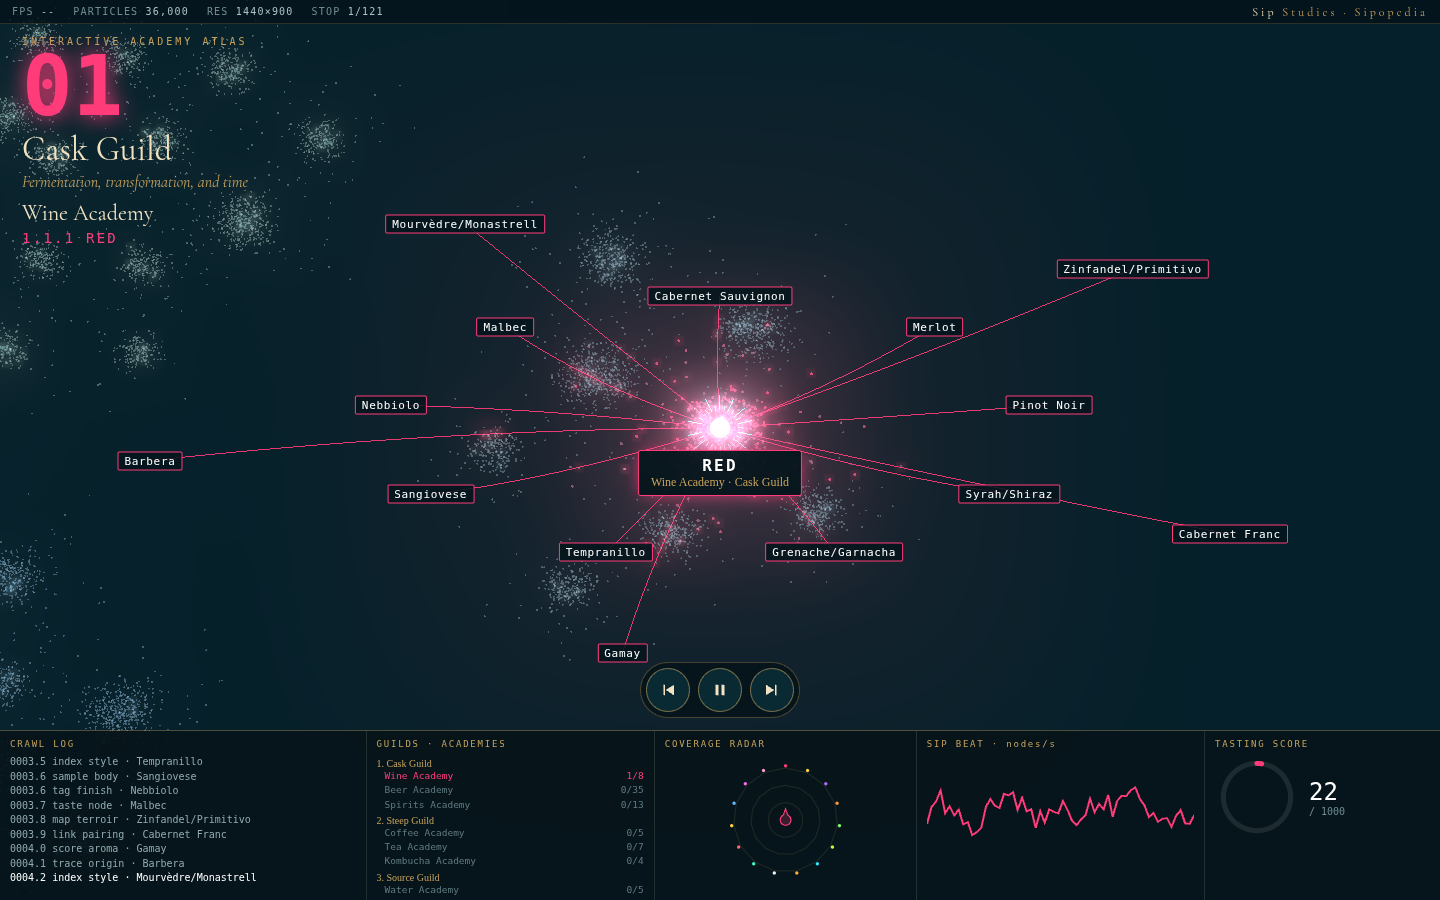
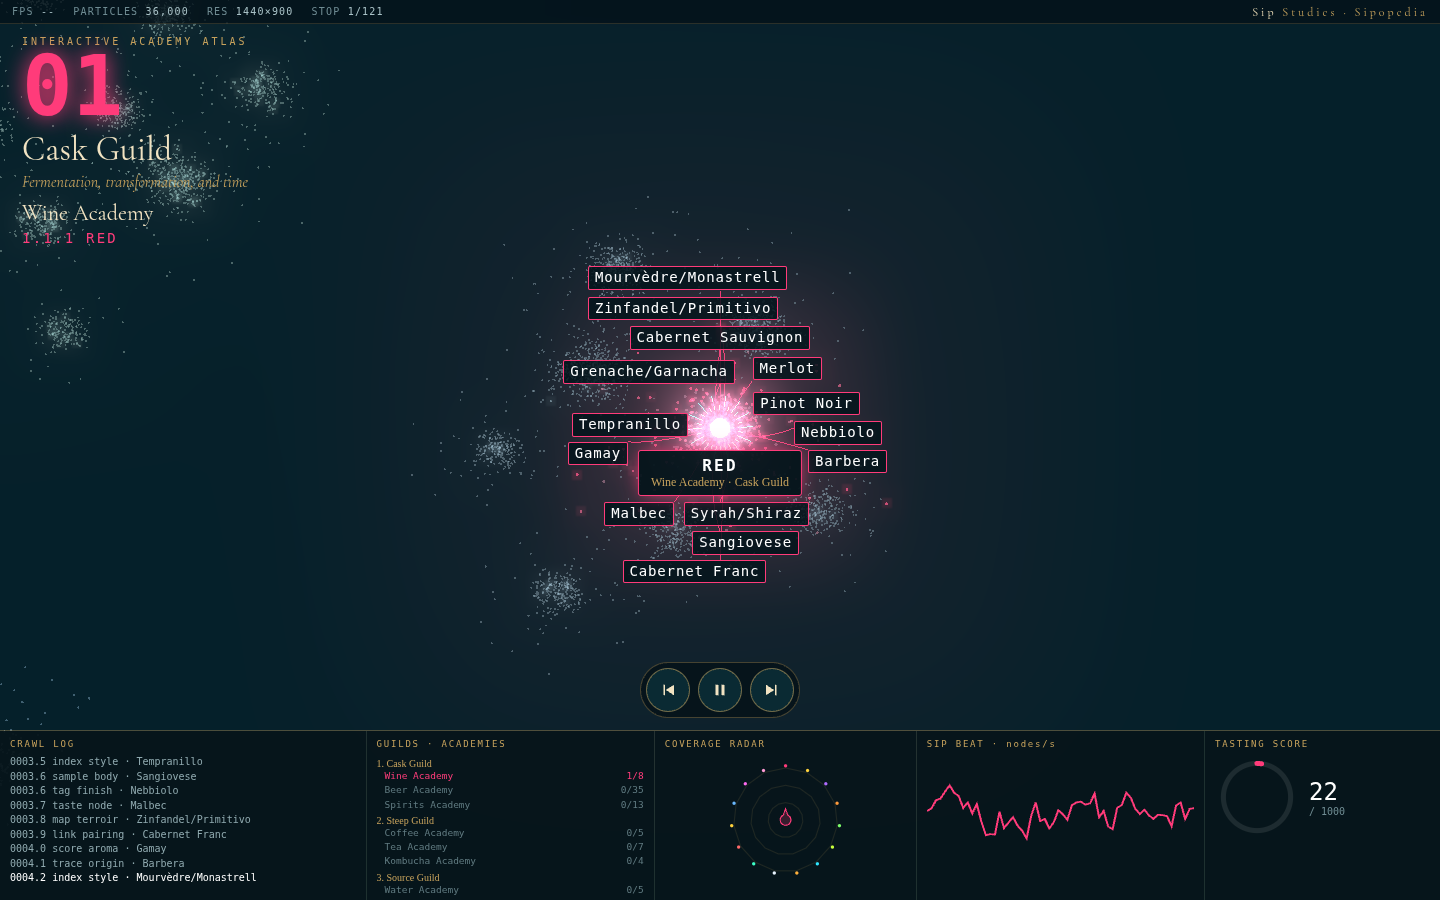
Collision-free label solver, locked per-stop layout, overlap check across 121 stops x 3 viewports, new previews

diff --git a/index.html b/index.html
@@ -7,12 +7,12 @@ canvas{position:fixed;inset:0;display:block}
 .serif{font-family:"Cormorant Garamond",Georgia,"Times New Roman",serif}
 #top{position:fixed;top:0;left:0;right:0;height:24px;display:flex;gap:18px;align-items:center;padding:0 12px;font-size:10px;letter-spacing:.12em;color:#6f8c93;border-bottom:1px solid #c6a15b33;background:#041219cc;z-index:4}
 #top b{color:#a9c2c7;font-weight:400}#brand{margin-left:auto;color:#e9d9b4;letter-spacing:.25em;font-size:12px}#brand span{color:#c6a15b}
-#step{position:fixed;top:36px;left:22px;z-index:3;pointer-events:none;max-width:60vw}
+body.still .tag,body.still #hub{transition:none!important}#step>div{width:fit-content;max-width:100%}#step{position:fixed;top:36px;left:22px;z-index:3;pointer-events:none;max-width:60vw}
 #kick{font-size:10px;letter-spacing:.3em;color:#c6a15b}
 #num{font-size:clamp(40px,7vw,84px);line-height:.95;font-weight:700;color:var(--c,#2ee6ff);text-shadow:0 0 22px var(--c,#2ee6ff)}
 #title{font-size:clamp(20px,3vw,34px);color:#f1e3c2;margin-top:2px}#tagline{font-style:italic;color:#c6a15b;font-size:clamp(12px,1.5vw,16px);margin-top:2px}
 #acad{font-size:clamp(15px,2vw,22px);color:#f1e3c2;margin-top:8px}#subt{font-size:clamp(11px,1.4vw,14px);letter-spacing:.16em;color:var(--c);margin-top:4px}
-.tag{position:fixed;z-index:2;font-size:var(--fs,10px);letter-spacing:.06em;padding:2px 6px;border:1px solid var(--c);color:#fff;background:#04141bd8;transform:translate(-50%,-50%);white-space:nowrap;transition:opacity .35s;pointer-events:none;border-radius:2px}
+.tag{position:fixed;z-index:2;font-size:var(--fs,10px);letter-spacing:.06em;padding:2px 6px;border:1px solid var(--c);color:#fff;background:#04141bd8;white-space:nowrap;transition:opacity .35s;line-height:1.25;pointer-events:none;border-radius:2px}
 #hub{position:fixed;z-index:3;transform:translate(-50%,0);pointer-events:none;text-align:center;padding:5px 12px;border:1px solid var(--c);background:#04141bee;box-shadow:0 0 18px -4px var(--c);border-radius:3px;white-space:nowrap;transition:opacity .3s}
 #hub b{display:block;font-size:clamp(12px,1.5vw,16px);letter-spacing:.14em;color:#fff}#hub i{display:block;font-style:normal;font-size:clamp(10px,1.1vw,12px);color:#c6a15b;font-family:Georgia,serif}
 #ctrl{position:fixed;left:50%;transform:translateX(-50%);bottom:182px;z-index:5;display:flex;gap:8px;background:#041219e0;border:1px solid #c6a15b55;border-radius:28px;padding:5px}
@@ -80,11 +80,29 @@ function clearT(){tendrils.forEach(t=>{scene.remove(t.line);t.line.geometry.disp
 function region(){const top=MOB?190:200,bot=MOB?200:240;return {top,bot:innerHeight-bot}}
 function layout(n){const caps=MOB?[6,9,12,15]:[9,13,17,21];const rings=[];let left=n,k=0;while(left>0){const c=Math.min(left,caps[Math.min(k,3)]);rings.push(c);left-=c;k++}
 const out=[];rings.forEach((c,k)=>{const f=rings.length==1?.8:.58+.42*k/(rings.length-1);for(let j=0;j<c;j++){const a=(j+(k%2)*.5)/c*Math.PI*2-Math.PI/2+(k*.17);out.push({a,f,ring:k})}});return out}
-function spawnT(s){clearT();const st=s.sg.styles,L=layout(st.length),fs=st.length>30?(MOB?7:8.5):st.length>14?(MOB?7.5:9.5):(MOB?8.5:11);
-st.forEach((name,j)=>{const geo=new THREE.BufferGeometry();geo.setAttribute('position',new THREE.BufferAttribute(new Float32Array(20*3),3));
+const PAD=4;let lock=null;
+function R(el){const b=el.getBoundingClientRect();return {x:b.left,y:b.top,w:b.width,h:b.height}}
+function hit(a,b,p){return a.x<b.x+b.w+p&&b.x<a.x+a.w+p&&a.y<b.y+b.h+p&&b.y<a.y+a.h+p}
+function reserved(cx,cy){const z=[R($('top')),R($('ctrl')),R($('dash'))];[...$('step').children].forEach(c=>{if(c.offsetParent&&c.textContent)z.push(R(c))});
+if(hub.firstChild.textContent)z.push(R(hub));z.push({x:cx-22,y:cy-22,w:44,h:44});return z}
+function solve(sizes,cx,cy,Z){const W=innerWidth,H=innerHeight,M=6,n=sizes.length,placed=[];const maxR=Math.hypot(W,H);
+for(let i=0;i<n;i++){const {w,h}=sizes[i],pref=i/n*Math.PI*2-Math.PI/2;let ok=null;
+for(let r=MOB?62:90;r<maxR&&!ok;r+=7){const da=Math.max(.05,9/r);for(let m=0;m*da<=Math.PI&&!ok;m++)for(const sg of m?[1,-1]:[1]){const a=pref+sg*m*da,px=cx+Math.cos(a)*r,py=cy+Math.sin(a)*r;
+const b={x:px-w/2,y:py-h/2,w,h};if(b.x<M||b.y<M||b.x+w>W-M||b.y+h>H-M)continue;if(Z.some(z=>hit(b,z,PAD))||placed.some(z=>hit(b,z,PAD)))continue;ok=b;break}}
+if(!ok)return null;placed.push(ok)}return placed}
+function spawnT(s,cx,cy,instant){clearT();const st=s.sg.styles;hub.style.left=cx+'px';hub.style.top=(cy+(MOB?16:22))+'px';
+// keep hub inside the free area
+let hb=R(hub);const top=R($('top')).y+R($('top')).h,ctl=R($('ctrl')).y;if(hb.y+hb.h>ctl-8)hub.style.top=(ctl-8-hb.h)+'px';if(hb.x<6)hub.style.left=(6+hb.w/2)+'px';if(hb.x+hb.w>innerWidth-6)hub.style.left=(innerWidth-6-hb.w/2)+'px';
+const Z=reserved(cx,cy);const els=st.map(name=>{const el=document.createElement('div');el.className='tag';el.style.setProperty('--c',s.A.a.color);el.textContent=name;el.style.opacity=0;el.style.left='-999px';el.style.top='0px';tagsEl.appendChild(el);return el});
+let fs=MOB?(st.length>12?12:13):(st.length>20?12:14),pl=null;
+for(;fs>=10&&!pl;fs--){els.forEach(el=>el.style.setProperty('--fs',fs+'px'));pl=solve(els.map(el=>({w:el.offsetWidth,h:el.offsetHeight})),cx,cy,Z)}
+window.__fallback=window.__fallback||0;if(!pl){window.__fallback++;pl=els.map((el,i)=>({x:6,y:30+i*(el.offsetHeight+2),w:el.offsetWidth,h:el.offsetHeight}))}
+lock={cx,cy,fs:fs+1};
+st.forEach((name,j)=>{const el=els[j],b=pl[j];el.style.left=b.x+'px';el.style.top=b.y+'px';
+const ex=Math.max(b.x,Math.min(cx,b.x+b.w)),ey=Math.max(b.y,Math.min(cy,b.y+b.h));
+const geo=new THREE.BufferGeometry();geo.setAttribute('position',new THREE.BufferAttribute(new Float32Array(20*3),3));
 const line=new THREE.Line(geo,new THREE.LineBasicMaterial({color:s.A.a.color,transparent:true,opacity:.8}));scene.add(line);
-const el=document.createElement('div');el.className='tag';el.style.setProperty('--c',s.A.a.color);el.style.setProperty('--fs',fs+'px');el.textContent=name;el.style.opacity=0;tagsEl.appendChild(el);
-tendrils.push({line,el,L:L[j],born:now,delay:j*(RM?.05:.09),wob:Math.random()*9,done:false,end:new THREE.Vector3()})})}
+if(instant){el.style.opacity=1}tendrils.push({line,el,sx:ex,sy:ey,done:!!instant,born:instant?now-99:now,delay:j*(RM?.05:.09),wob:Math.random()*9,end:new THREE.Vector3()})})}
 // HUD
 const logEl=$('log'),secsEl=$('secs');const rows=[];
 G.forEach((g,gi)=>{const h=document.createElement('div');h.className='gh';h.textContent=`${gi+1}. ${title(g.name)}`;h.onclick=()=>jump(acads.find(a=>a.g==gi).first);secsEl.appendChild(h);
@@ -131,16 +149,14 @@ const cm=ease(Math.min(1,e/(travel*1.05)));cam.position.lerpVectors(camFrom,camT
 ring.rotation.z+=rdt*(RM?.3:1.6);crawler.scale.setScalar(1+Math.sin(now*6)*.06);
 tp.copyWithin(3,0,(TL-1)*3);tp[0]=crawler.position.x;tp[1]=crawler.position.y;tp[2]=crawler.position.z;tg.attributes.position.needsUpdate=true;
 const cp=crawler.position.clone().project(cam),cx=(cp.x+1)/2*innerWidth,cy=(1-cp.y)/2*innerHeight;
-if(!all){if(e>travel*.85)hub.style.opacity=1;hub.style.left=cx+'px';hub.style.top=(cy+(MOB?16:22))+'px';
-if(e>travel&&!spawned){spawned=true;spawnT(stop);if(!seen[cur]){seen[cur]=1;stop.A.done++;rows[stop.A.idx].lastChild.textContent=`${stop.A.done}/${stop.A.n}`}}
+if(!all){if(e>travel*.85)hub.style.opacity=1;if(!spawned){hub.style.left=cx+'px';hub.style.top=(cy+(MOB?16:22))+'px'}
+if(e>travel&&!spawned){spawned=true;spawnT(stop,cx,cy);if(!seen[cur]){seen[cur]=1;stop.A.done++;rows[stop.A.idx].lastChild.textContent=`${stop.A.done}/${stop.A.n}`}}
 if(e>travel)lit[cur]=Math.min(1,lit[cur]+rdt*1.2)}
-const rg=region(),hx=Math.min(cx-60,innerWidth-cx-60,MOB?innerWidth*.46:innerWidth*.40),hy=Math.min(cy-rg.top,rg.bot-cy,MOB?240:260);
-tendrils.forEach((td,j)=>{const a=Math.max(0,Math.min(1,(now-td.born-td.delay)/.6)),k=1-Math.pow(1-a,3)+(RM?0:Math.sin(a*Math.PI*3)*.08*(1-a));
-let sx=cx+Math.cos(td.L.a)*Math.max(70,hx)*td.L.f,sy=cy+Math.sin(td.L.a)*Math.max(60,hy)*td.L.f;const hw=(td.w||(td.w=td.el.offsetWidth))/2+6;sx=Math.max(hw,Math.min(innerWidth-hw,sx));sy=Math.max(rg.top-10,Math.min(rg.bot,sy));
+tendrils.forEach((td,j)=>{const a=Math.max(0,Math.min(1,(now-td.born-td.delay)/.6)),k=1-Math.pow(1-a,3)+(RM?0:Math.sin(a*Math.PI*3)*.08*(1-a));const sx=td.sx,sy=td.sy;
 tmp.set(sx/innerWidth*2-1,-(sy/innerHeight*2-1),cp.z).unproject(cam);td.end.copy(tmp);
 const pa=td.line.geometry.attributes.position.array,s=crawler.position,w=RM?0:4,mid=s.clone().lerp(td.end,.5).add(new THREE.Vector3(Math.sin(now*2+td.wob)*w,Math.cos(now*1.7+td.wob)*w,0));
 for(let q=0;q<20;q++){const u=q/19*k,a1=s.clone().lerp(mid,u),a2=mid.clone().lerp(td.end,u),pt=a1.lerp(a2,u);pa[q*3]=pt.x;pa[q*3+1]=pt.y;pa[q*3+2]=pt.z}
-td.line.geometry.attributes.position.needsUpdate=true;td.el.style.left=sx+'px';td.el.style.top=sy+'px';
+td.line.geometry.attributes.position.needsUpdate=true;
 if(a>=1&&!td.done){td.done=true;td.el.style.opacity=1;score++;log(`${VERBS[(j+cur)%VERBS.length]} · ${td.el.textContent}`);beatArr[beatArr.length-1]=1}});
 for(let i=0;i<NS;i++)litData[i*4]=lit[i];litTex.needsUpdate=true;pm.uniforms.uT.value=now;
 if(fr%2==0&&!paused){beatArr.push(Math.min(1,beatArr[beatArr.length-1]*.6+.08+Math.random()*.3*(all?.5:1)));beatArr.shift()}
@@ -148,9 +164,17 @@ if(fr%3==0){const c=all?'#c6a15b':stop.A.a.color;drawRadar(c);drawBeat(c);const 
 if(e>dur&&!paused)setStep(all?0:cur+1);
 if(!noloop){comp.render();requestAnimationFrame(frame)}}
 function rs(){MOB=innerWidth<760;cam.aspect=innerWidth/innerHeight;cam.updateProjectionMatrix();r.setSize(innerWidth,innerHeight);comp.setSize(innerWidth,innerHeight);$('res').textContent=innerWidth+'×'+innerHeight}
-addEventListener('resize',rs);rs();
+addEventListener('resize',()=>{rs();if(spawned&&lock&&cur<NS){const p=crawler.position.clone().project(cam);spawnT(stop,(p.x+1)/2*innerWidth,(1-p.y)/2*innerHeight,true)}});rs();
 const Q=new URLSearchParams(location.search),SEEK=+Q.get('seek'),STOP=Q.get('stop');
+if(STOP!==null||SEEK||Q.has('check'))document.body.classList.add('still');
 if(STOP!==null){jump(+STOP);FIX=1/30;for(let i=0;i<(+Q.get('t')||8)*30;i++)frame(0,true);FIX=1e-6}
 else if(SEEK){FIX=1/30;for(let i=0;i<SEEK*30;i++)frame(0,true);FIX=1e-6}
-requestAnimationFrame(frame);
+if(Q.has('check')){const res=[];FIX=1/30;for(let k=0;k<NS;k++){jump(k);let g=0;while(!spawned&&g++<600)frame(0,true);for(let i=0;i<30;i++)frame(0,true);
+const cp=crawler.position.clone().project(cam),cx=(cp.x+1)/2*innerWidth,cy=(1-cp.y)/2*innerHeight;
+const T=[...tagsEl.children].map(el=>({n:el.textContent,...R(el)})),Z=[['hub',R(hub)],['top',R($('top'))],['ctrl',R($('ctrl'))],['dash',R($('dash'))],...[...$('step').children].filter(c=>c.offsetParent&&c.textContent).map(c=>['step:'+c.id,R(c)]),['crawler',{x:cx-10,y:cy-10,w:20,h:20}]];
+const bad=[];T.forEach((a,i)=>{if(a.x<0||a.y<0||a.x+a.w>innerWidth||a.y+a.h>innerHeight)bad.push(a.n+'|offscreen');T.forEach((b,j)=>{if(j>i&&hit(a,b,0))bad.push(a.n+'|'+b.n)});Z.forEach(([zn,z])=>{if(hit(a,z,0))bad.push(a.n+'|'+zn)})});
+Z.forEach(([zn,z])=>{if(zn!='hub'&&zn!='crawler'&&hit(Z[0][1],z,0))bad.push('hub|'+zn)});
+res.push({k,id:stop.sg.id,name:stop.sg.name,n:T.length,fs:lock.fs,bad})}
+const fails=res.filter(r=>r.bad.length);const out=document.createElement('pre');out.id='check';out.textContent=JSON.stringify({vp:innerWidth+'x'+innerHeight,stops:res.length,fails:fails.length,fallback:window.__fallback||0,minfs:Math.min(...res.map(r=>r.fs)),detail:fails.slice(0,20)});document.body.appendChild(out)}
+else requestAnimationFrame(frame);
 </script></body></html>

diff --git a/build/check.html b/build/check.html
@@ -1,0 +1,6 @@
+<!doctype html><html><body style="margin:0"><pre id="out">running</pre><script>
+const sizes=[[390,844],[768,1024],[1440,900]],res=[];let i=0;
+function next(){if(i>=sizes.length){document.getElementById('out').textContent='RESULT '+JSON.stringify(res);return}
+const [w,h]=sizes[i++],f=document.createElement('iframe');f.style.cssText=`width:${w}px;height:${h}px;border:0;display:block`;f.src='../index.html?check=1';document.body.appendChild(f);
+const t=setInterval(()=>{const d=f.contentDocument&&f.contentDocument.getElementById('check');if(d){clearInterval(t);res.push(JSON.parse(d.textContent));f.remove();next()}},200)}
+next();</script></body></html>

diff --git a/README.md b/README.md
@@ -24,3 +24,6 @@ A one-page WebGL atlas matching Sipopedia.com's structure: **5 guilds → 15 aca
 - Health/medical drinks: WHO oral rehydration salts formula; IDDSI framework (thickened drinks)
 - Protein/energy: US FDA dietary supplement & caffeine guidance; EFSA scientific opinion on caffeine safety (2015)
 - Kombucha & fermented drinks: Kombucha Brewers International code of practice; BJCP 2025 cider and 2015 mead guidelines
+
+## Label layout & overlap check
+Tags are placed per stop by a deterministic screen-space solver (rings/angles around the crawler, greedy placement with 4px padding) that treats the header, step title, center label, crawler core, controls and dashboard as reserved zones; font steps down (min 10px) if needed. Layout is locked per stop and recomputed on resize. `build/check_overlaps.sh` visits all 121 stops at 390×844, 768×1024 and 1440×900 (exact iframe viewports via `build/check.html` + `?check=1`) and fails on any intersection or offscreen label.
